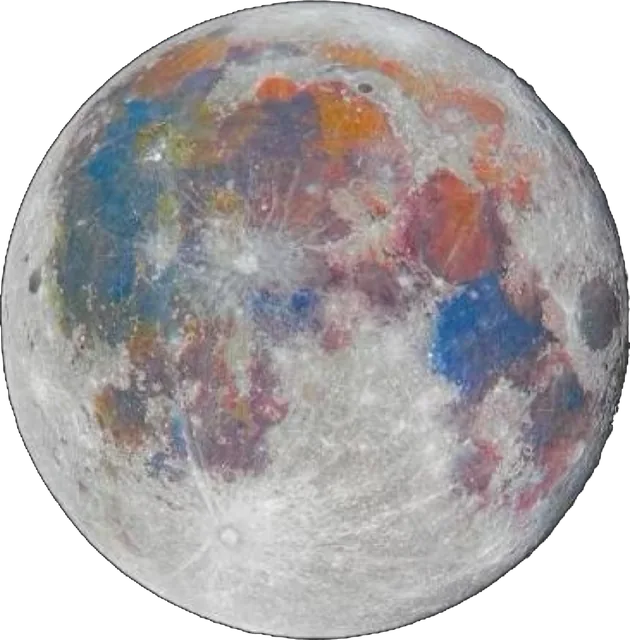
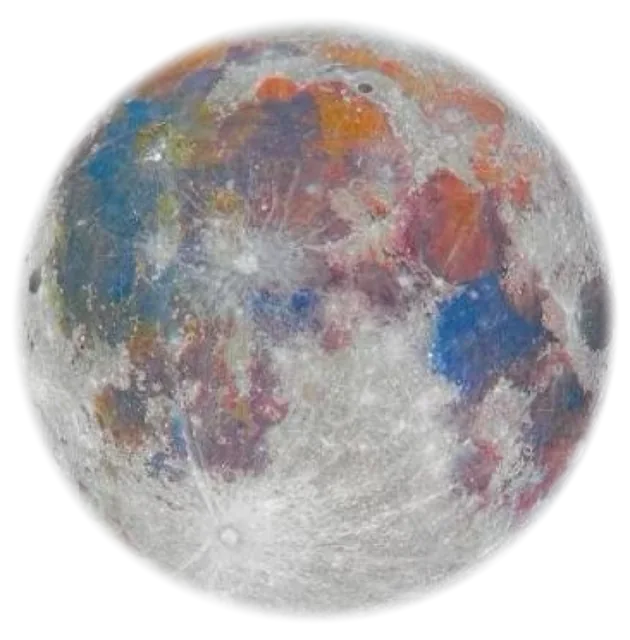
Remove the square edges around the orbiting sun and moon.

Changed region(s): [[0.0, 0.0, 1.0, 1.0]]

diff --git a/src/styles.css b/src/styles.css
@@ -1440,7 +1440,6 @@ details.fold>:not(summary) {
   }
   .reminder {
     padding: .28rem .6rem .32rem;
-    max-height: 6.6rem;
   }
 }
 @media (height<=520px) {
@@ -1533,7 +1532,7 @@ details.fold>:not(summary) {
   justify-content: center;
   align-items: center;
   min-height: 0;
-  padding: 5% 1.6rem 2.4rem;
+  padding: 5% 1.6rem .2rem;
   display: flex;
   position: relative;
   overflow: hidden;
@@ -1569,7 +1568,7 @@ details.fold>:not(summary) {
 }
 .reminder {
   padding: .4rem .7rem .45rem;
-  max-height: min(22svh, 9.25rem);
+  max-height: min(38svh, 18rem);
   overflow-y: auto;
 }
 .reminder-ar {
